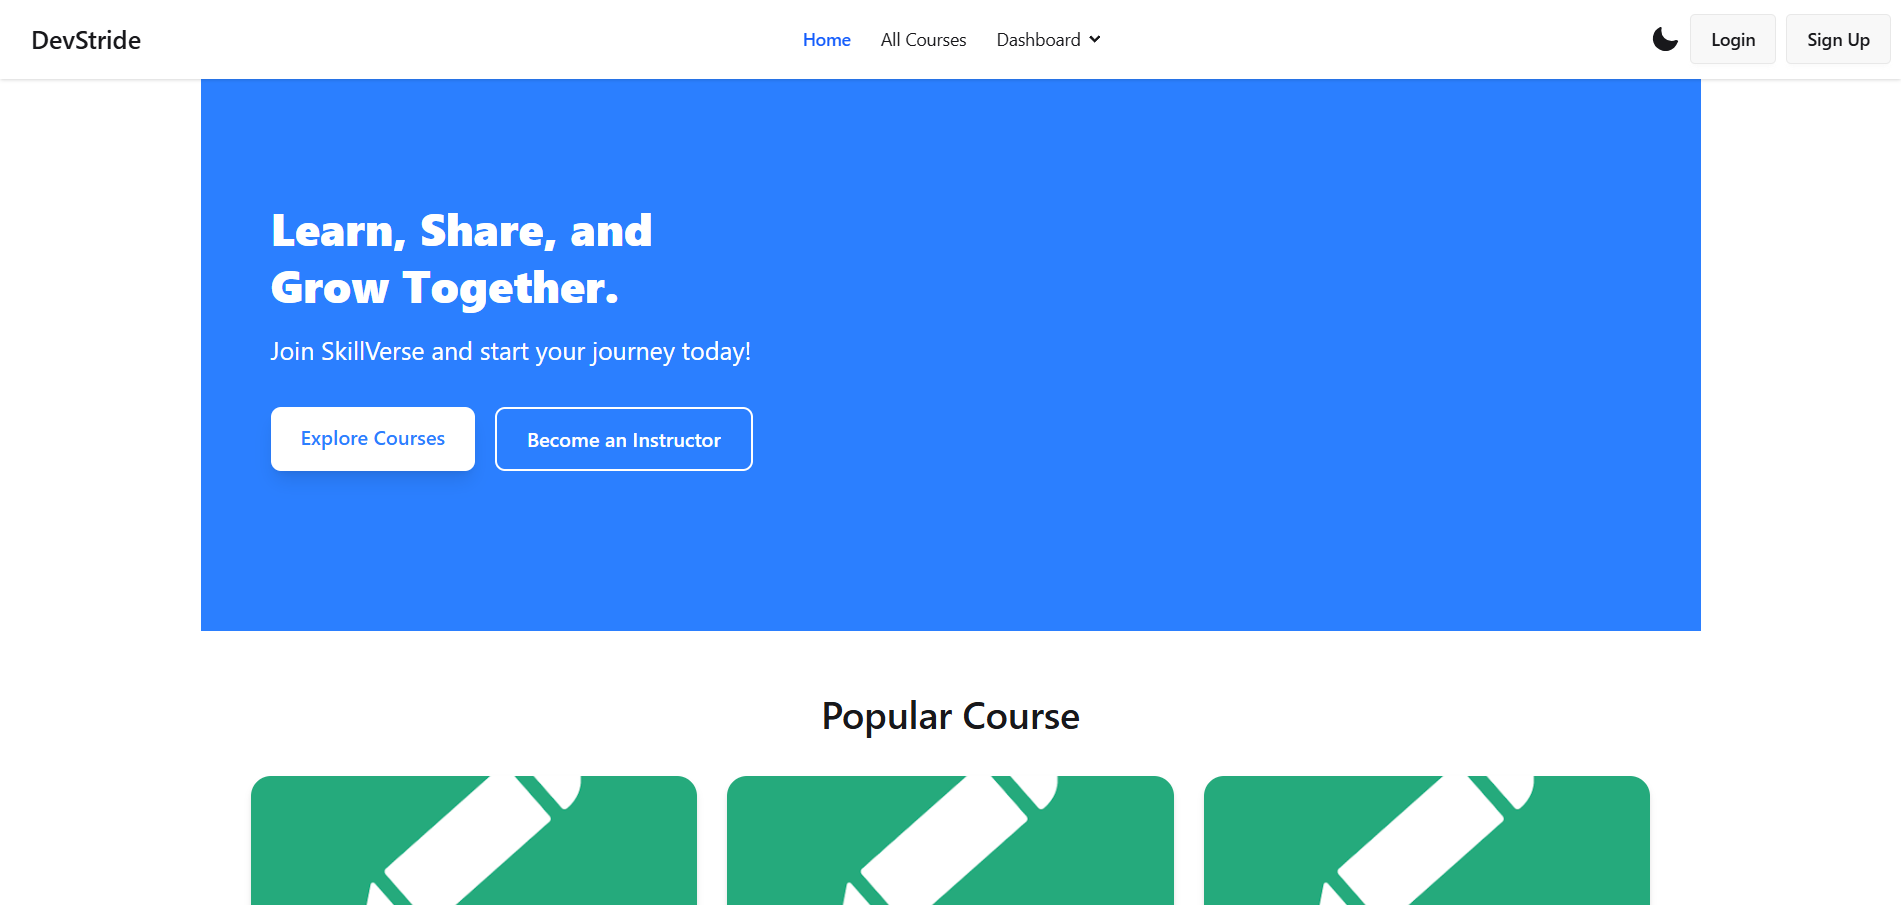
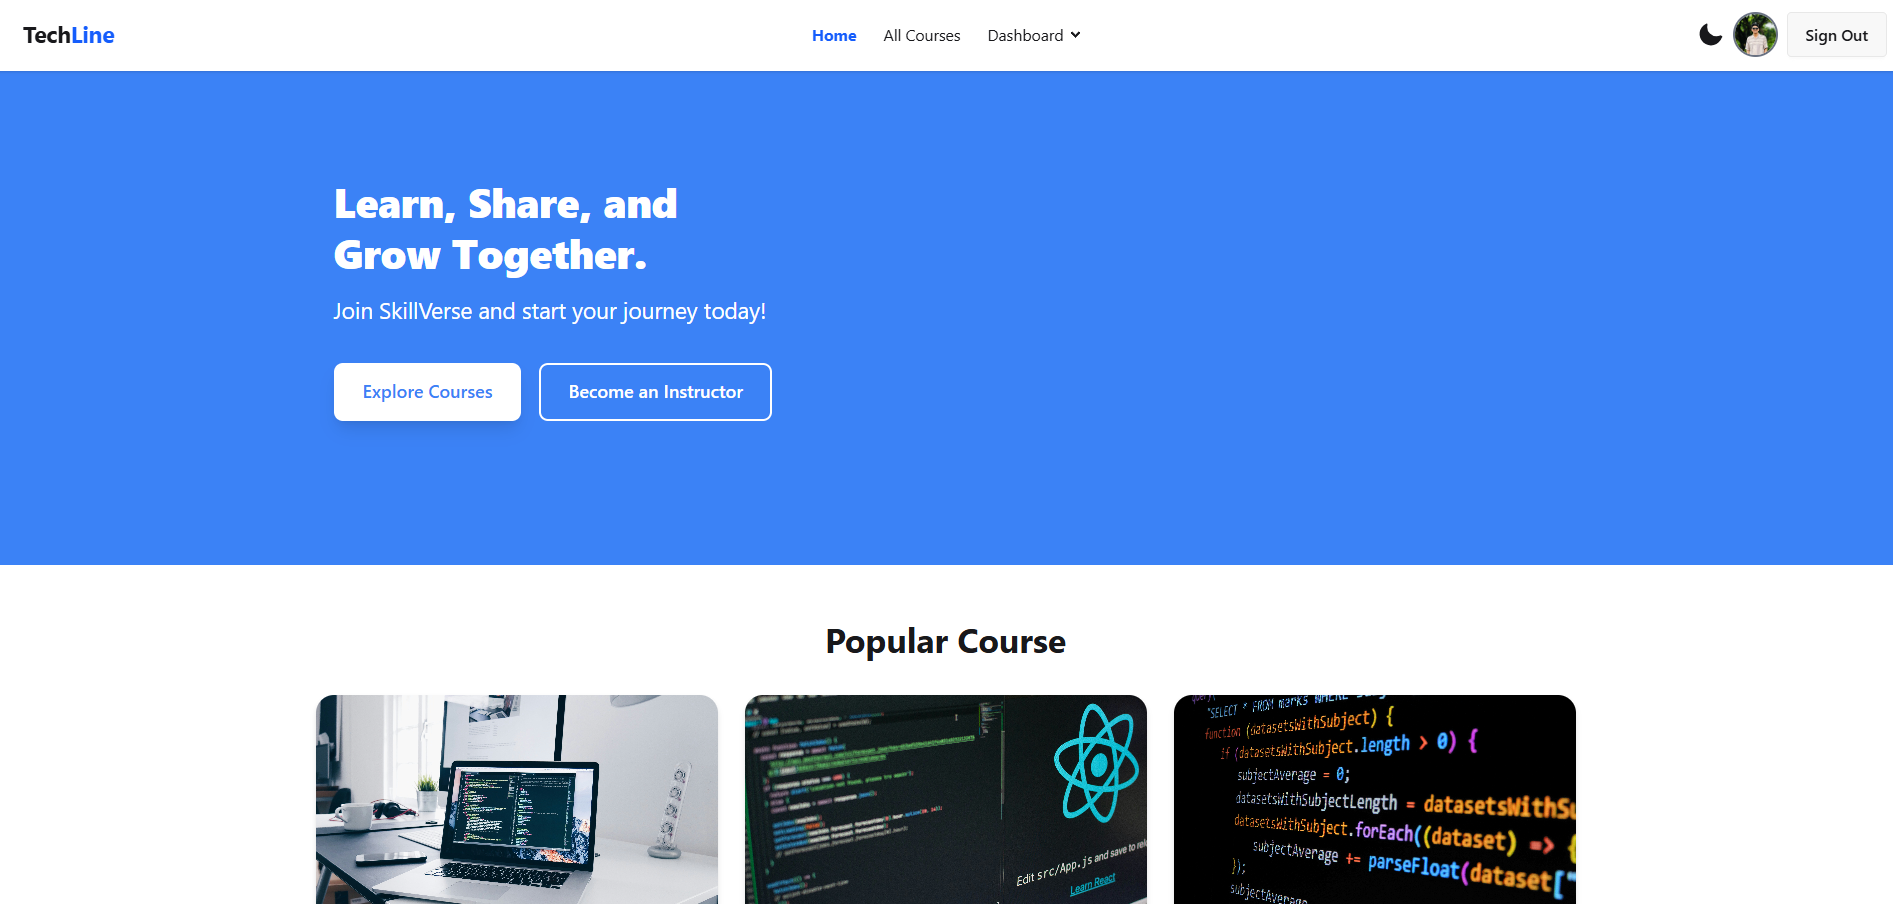
Update TechLine project details

diff --git a/src/components/ProjectsSection.jsx b/src/components/ProjectsSection.jsx
@@ -3,11 +3,11 @@ import { ArrowRight, ExternalLink } from "lucide-react";
 const projects = [
     {
         id: 1,
-        title: "DevStride: Software Engineering Learning Platform",
-        description: "A responsive online learning platform for Software Engineering, featuring course enrollment, progress tracking, Firebase authentication, and interactive user experiences.",
+        title: "TechLine: Online Learning Platform",
+        description: "A full-stack online learning platform featuring Firebase authentication, course browsing, enrollment, role-based access control, and dynamic course management.",
         image: "/projects/Project1.png",
-        tags: ["React", "Tailwind CSS", "Firebase"],
-        demoUrl: "https://dev-stride-89da6.web.app/",
+        tags: ["React", "Node.js", "Express.js", "MongoDB", "Firebase", "Tailwind CSS", "Vercel", "Railway"],
+        demoUrl: "https://tech-line-online-learning-platform.vercel.app",
     },
     {
         id: 2,
@@ -15,7 +15,7 @@ const projects = [
         description: "A full-stack event management platform built with Next.js, featuring secure authentication, event management, responsive dashboards, and MongoDB integration.",
         image: "/projects/Project2.png",
         tags: ["Next.js","React", "Tailwind CSS", "MongoDB", "NextAuth"],
-        demoUrl: "https://event-management-nextjs-olive.vercel.app/",
+        demoUrl: "https://event-management-nextjs-olive.vercel.app",
     },
     {
         id: 3,
@@ -23,7 +23,7 @@ const projects = [
         description: "A skill-sharing platform connecting learners and instructors through skill discovery, user authentication, and a responsive React-based interface.",
         image: "/projects/Project3.png",
         tags: ["React", "Vite", "Tailwind CSS", "Firebase", "JavaScript"],
-        demoUrl: "https://skillswap-firebase-auth-c71c8.web.app/",
+        demoUrl: "https://skillswap-firebase-auth-c71c8.web.app",
     },
 ];
 
